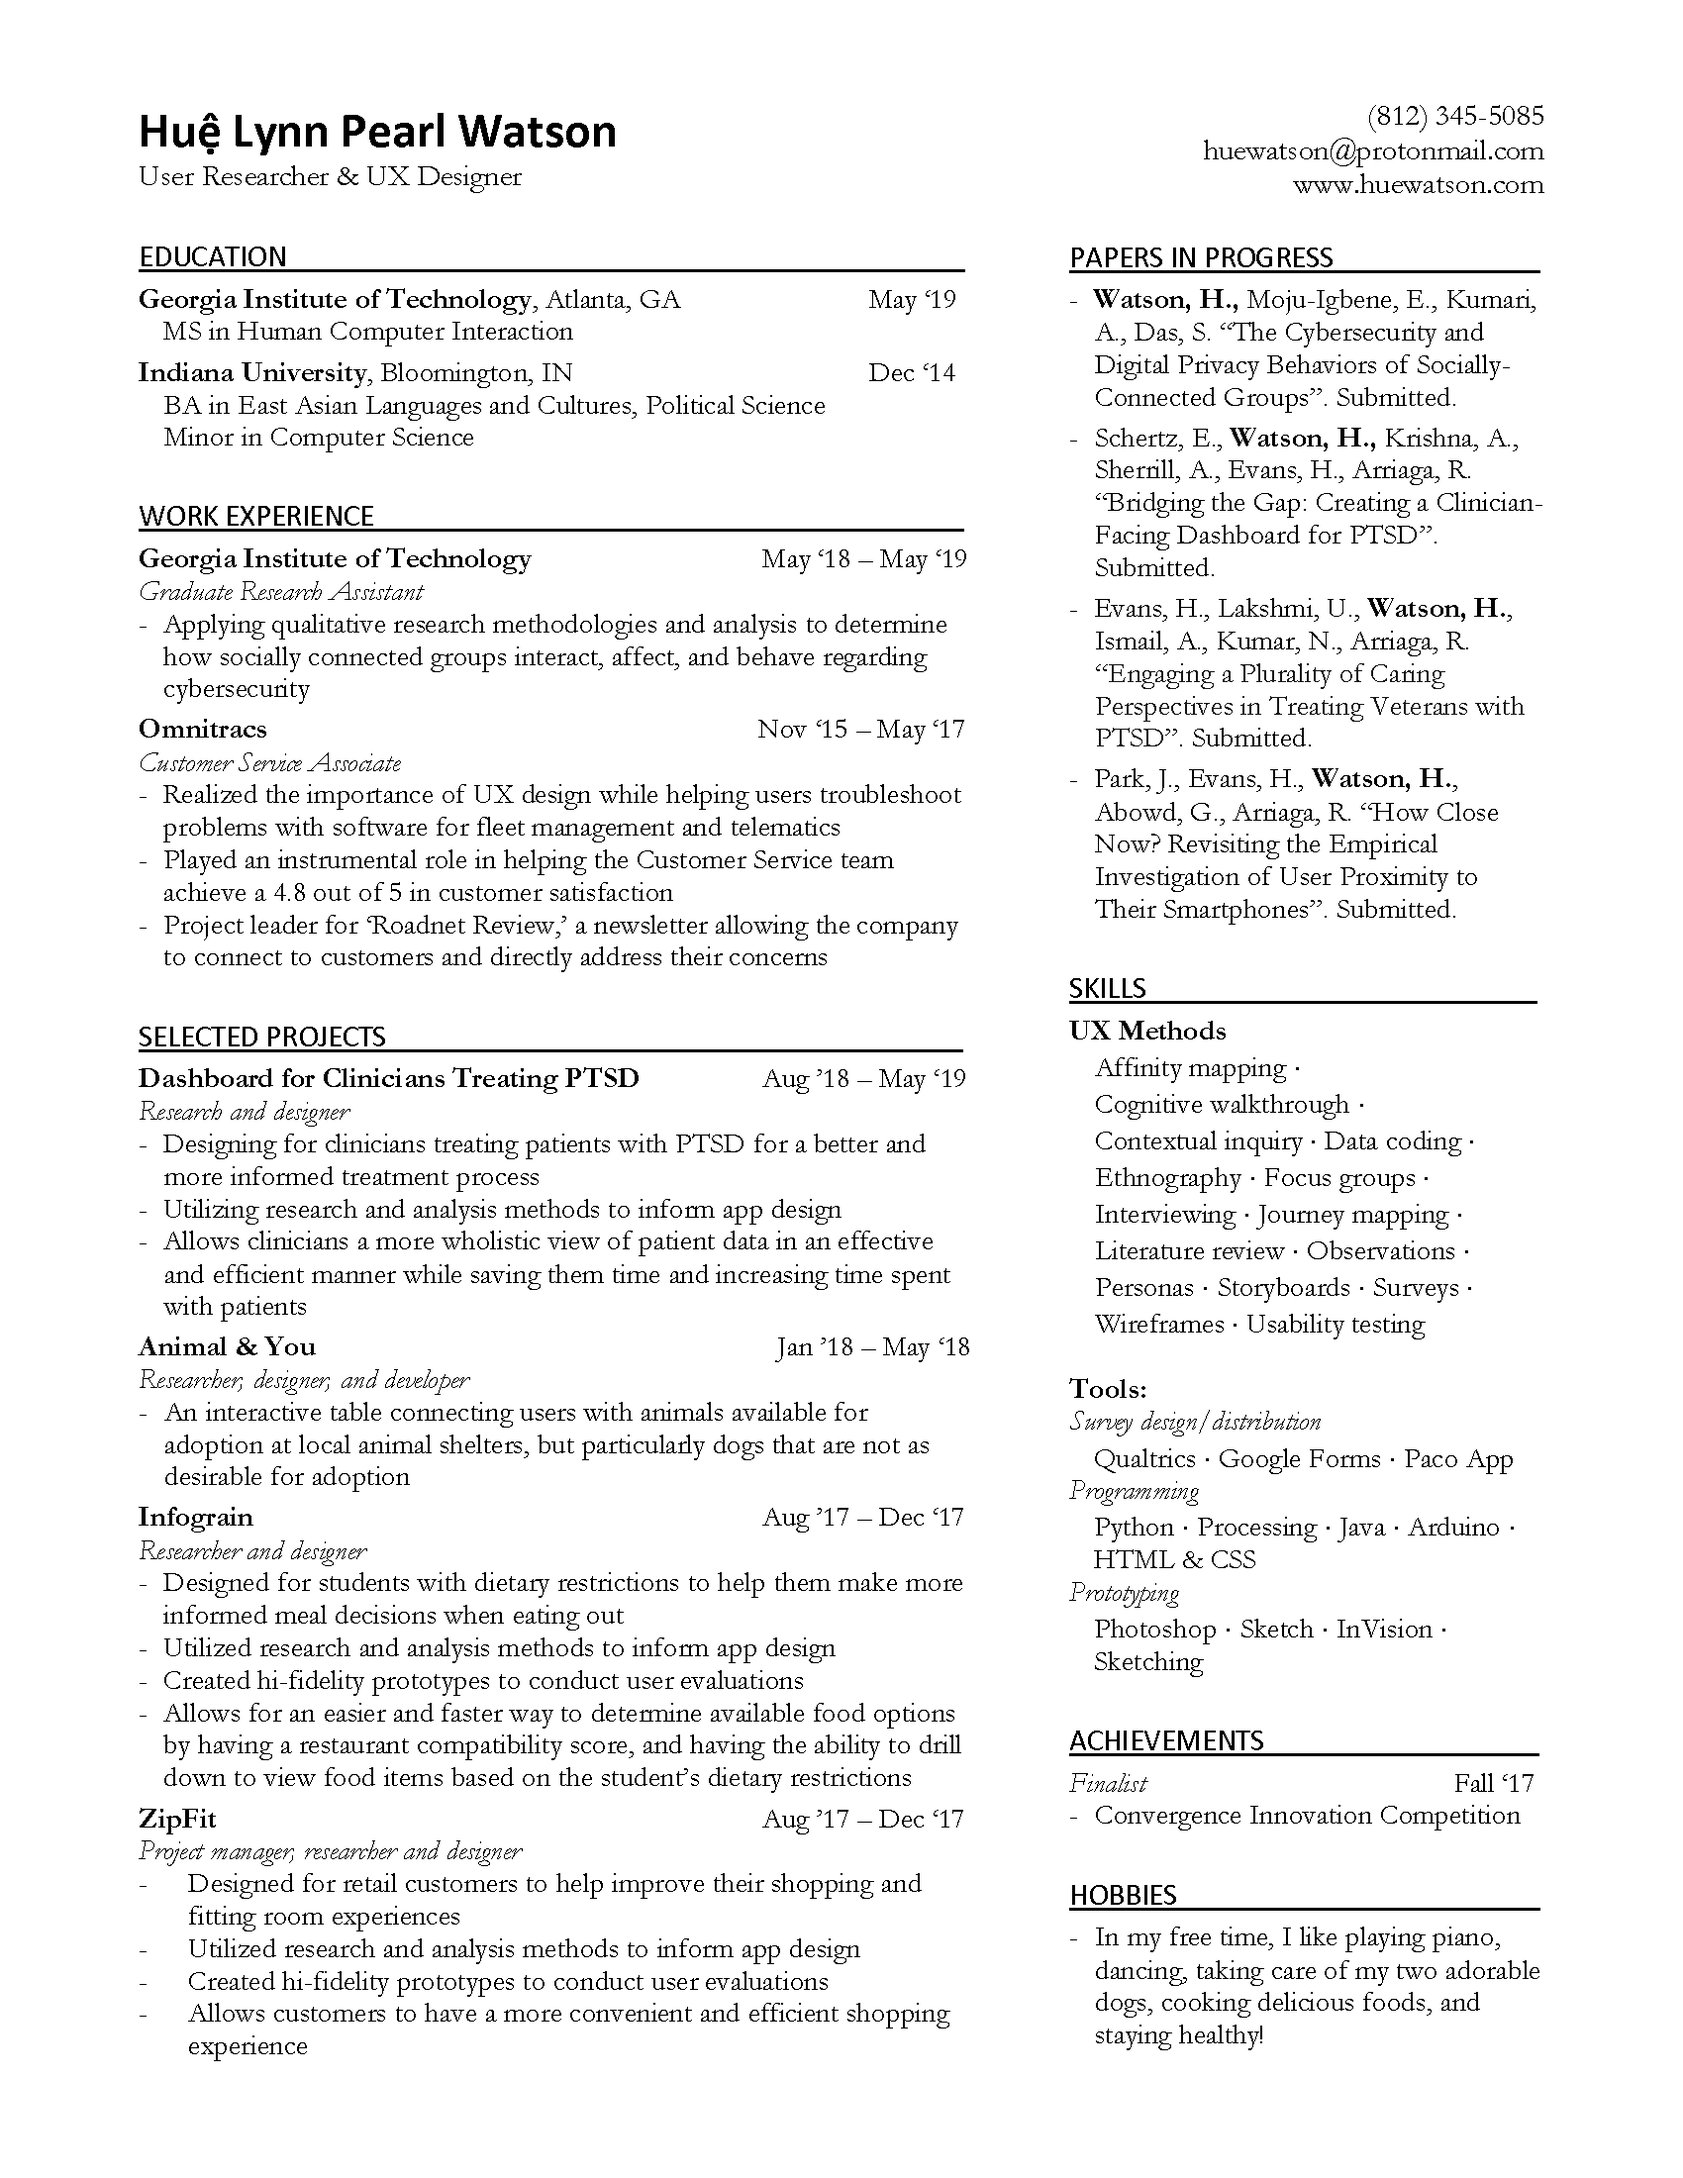
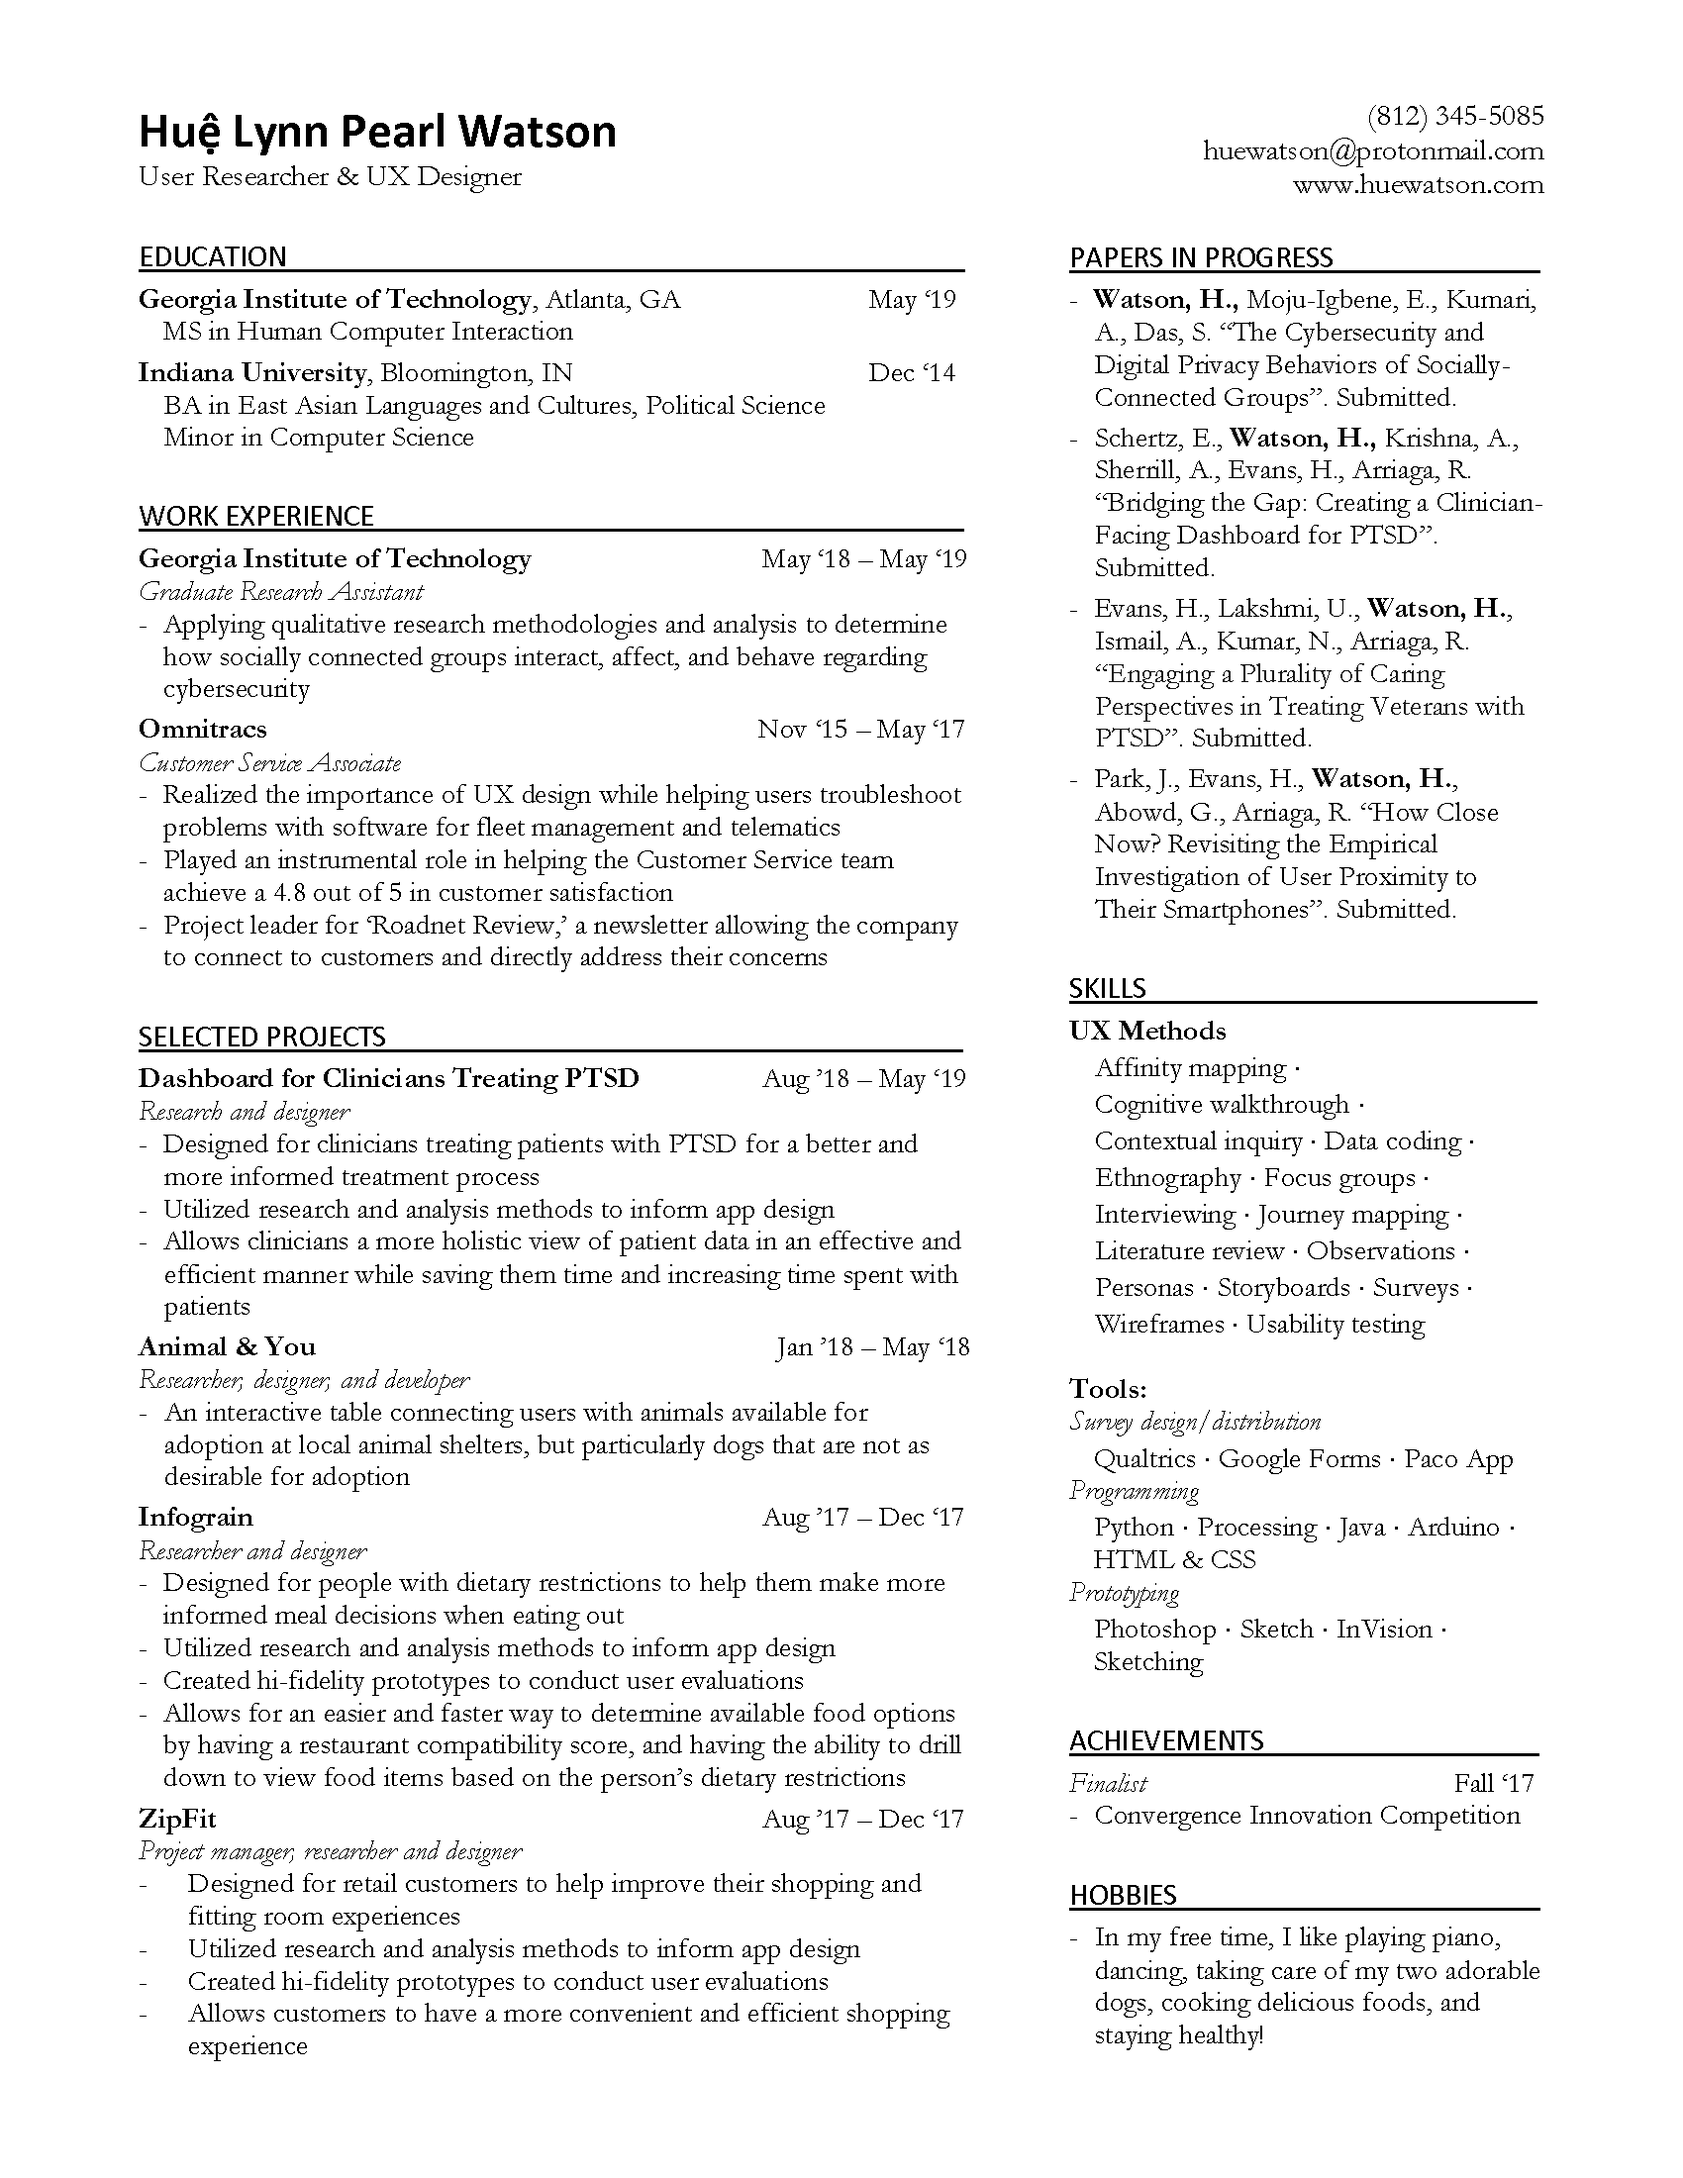
edits on index and pdf

diff --git a/index.html b/index.html
@@ -79,7 +79,7 @@
 							<article id="projects">
 								<h2 class="major">Selected Projects</h2>
 								<h3 class="major"><a href="infograin.html">Infograin:</a></h3>
-								<p>Designed for students with dietary restrictions to help them make informed meal decisions when eating out.</p>
+								<p>Designed for people with dietary restrictions to help them make informed meal decisions when eating out.</p>
 								<a href="infograin.html">
 									<span class="image main"><img class="pure-img" src="images/food4.jpg" alt=""/></span>
 								</a>
